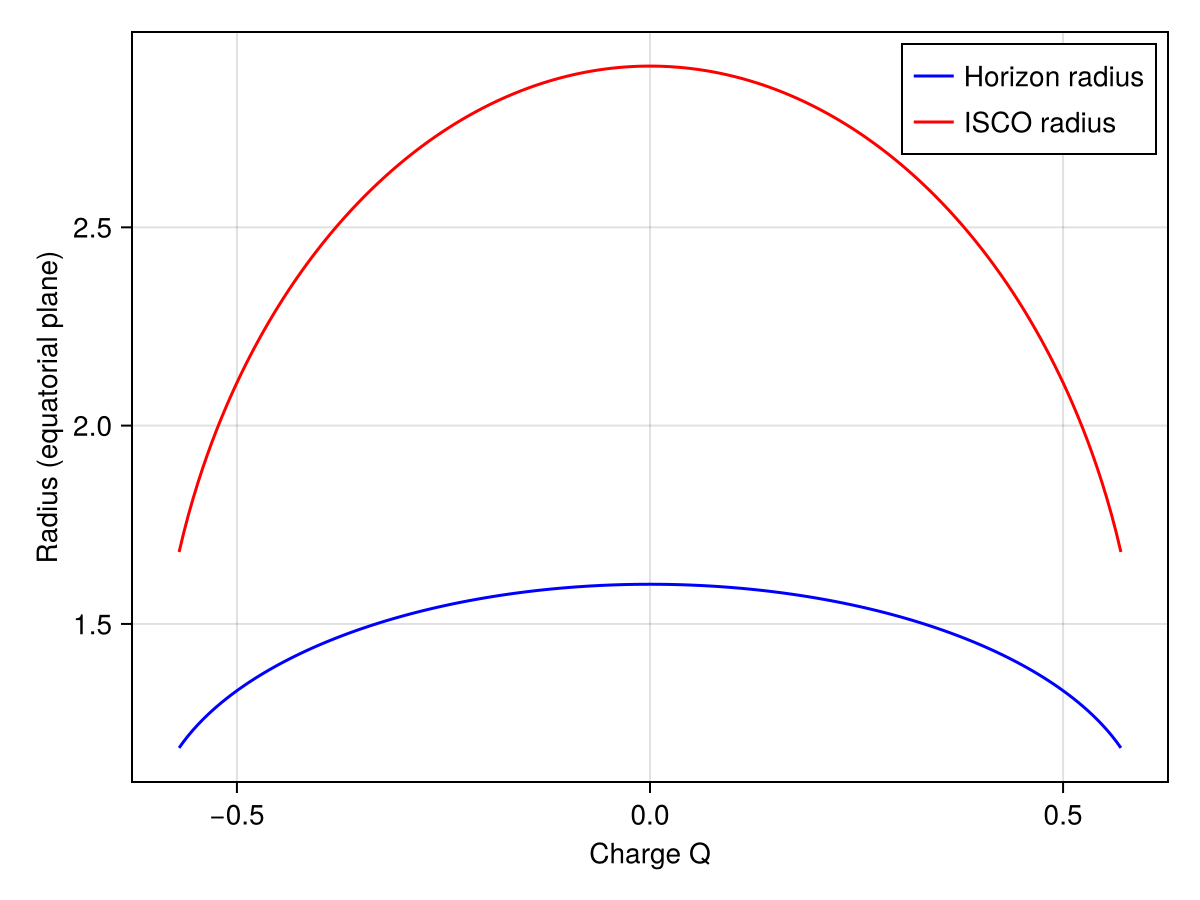
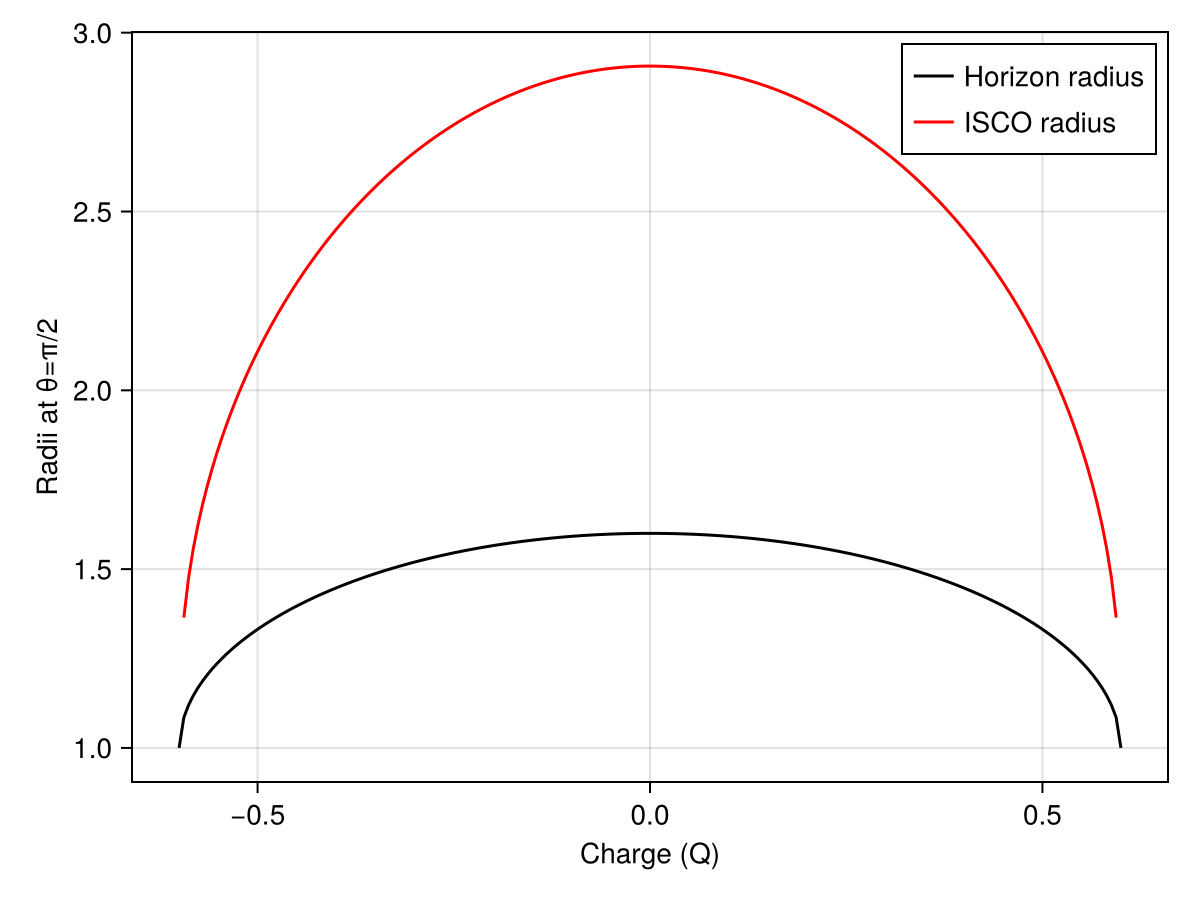
newman stuff

diff --git a/docs/src/Kerr-Newman.md b/docs/src/Kerr-Newman.md
@@ -89,6 +89,10 @@ The Kerr-Newman metric in Boyer–Lindquist coordinates contains off-diagonal te
 
 ## Special radii
 
+Similar to the Kerr case, the event horizon is defined by $\Delta = 0$ which in this case leads to:
+
+$$r_{\text{horizon}} = M + \sqrt{M^2 - a^2-Q^2}$$
+
 ```@raw html
 <details>
 <summary>Click to expand / collapse code block.</summary>
@@ -100,7 +104,7 @@ using CairoMakie
 
 M = 1.0
 a = 0.8
-qmax = 0.95 * sqrt(1 - a^2)
+qmax = sqrt(1 - a^2)
 Q_values = range(-qmax, qmax, length=200)
 
 horizon_radii = zeros(length(Q_values))
@@ -123,9 +127,9 @@ end
 # Only after loop completes:
 
 fig = Figure()
-ax = Axis(fig[1, 1], xlabel="Charge Q", ylabel="Radius (equatorial plane)")
+ax = Axis(fig[1, 1], xlabel="Charge (Q)", ylabel="Radii at θ=π/2")
 
-lines!(ax, Q_values, horizon_radii, color=:blue, label="Horizon radius")
+lines!(ax, Q_values, horizon_radii, color=:black, label="Horizon radius")
 lines!(ax, Q_values, isco_radii, color=:red, label="ISCO radius")
 
 axislegend(ax)

diff --git a/docs/src/kerr.md b/docs/src/kerr.md
@@ -82,9 +82,11 @@ The Kerr metric in Boyer–Lindquist coordinates contains off-diagonal terms $(g
 
 ### Frame Dragging
 
-In the case of a spinning black hole, rotation leads to the dragging of spacetime
-in the direction of the spin, an effect known as frame dragging. Frame dragging causes orbits like the ISCO and photon orbit to vary in radius. The effect that frame dragging has on the photon orbit and
-the ISCO will increase with the angular momentum of the black hole.
+In the case of a spinning black hole, rotation leads to the dragging of spacetime in the direction of the spin, an effect known as frame dragging. Frame dragging causes orbits like the ISCO and photon orbit to vary in radius. The effect that frame dragging has on the photon orbit and the ISCO will increase with the angular momentum of the black hole.
+
+For a Kerr black hole, the event horizon is given by the condition $\Delta = 0$ which leads to:
+
+$$r_{\text{horizon}} = M + \sqrt{M^2 - a^2}$$
 
 
 ```@raw html
